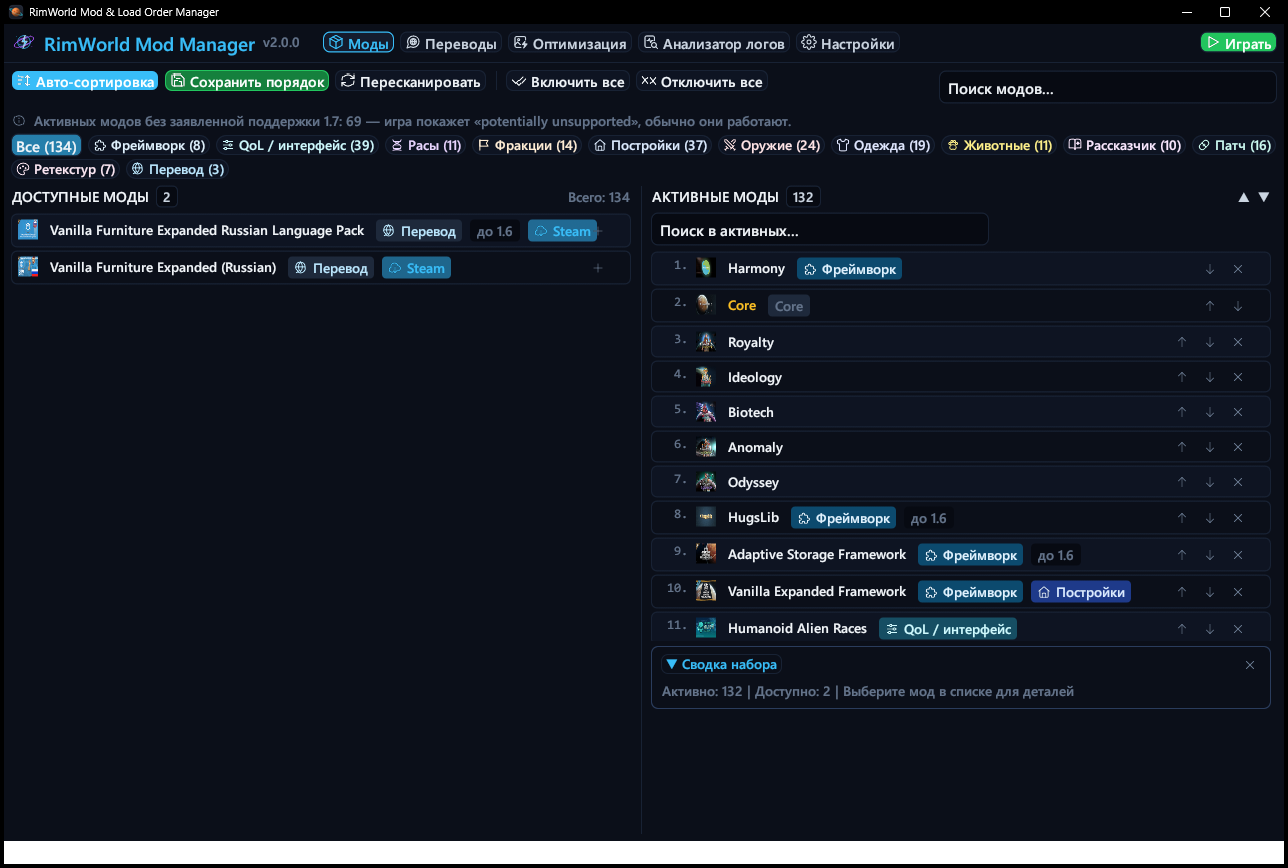
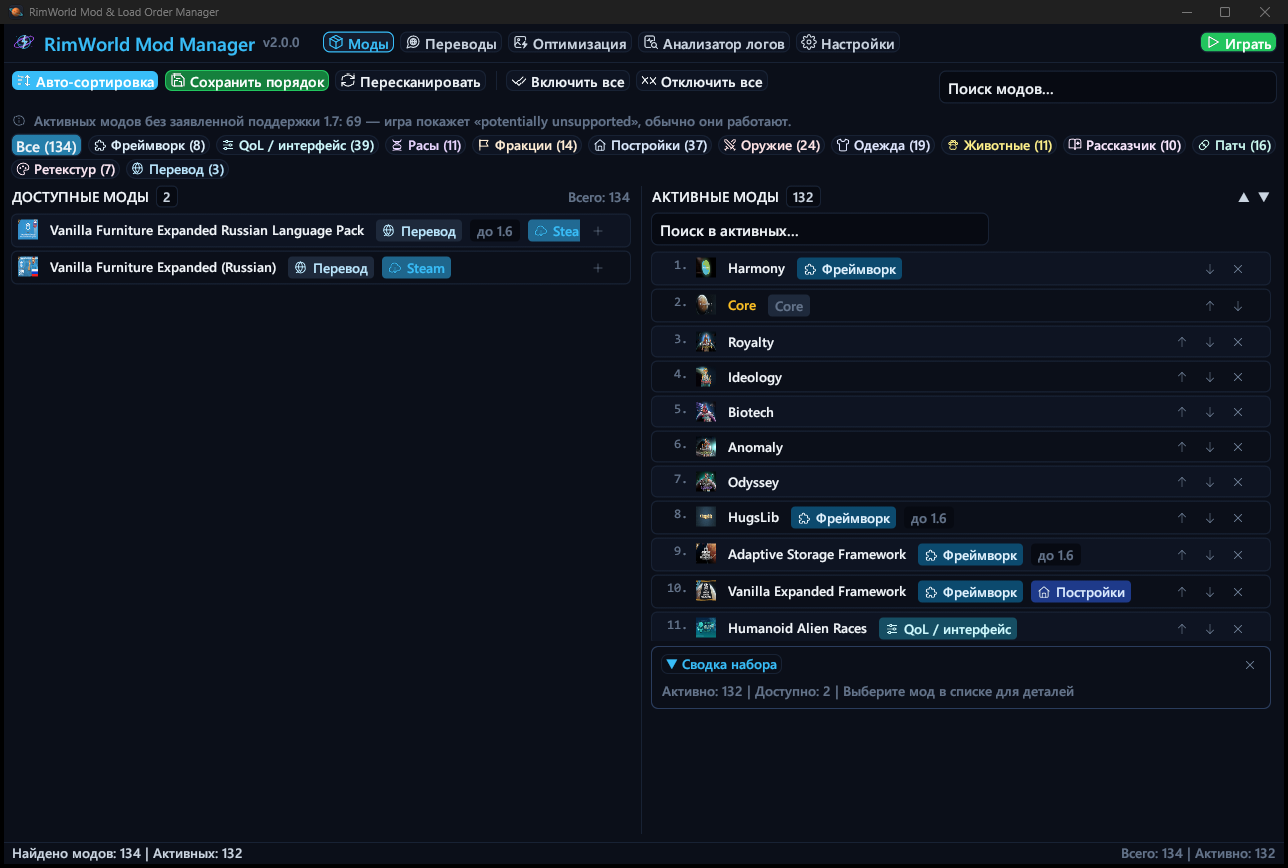
Mod rows: fixed button slot at the right edge
Long names and many badges are clipped before the row buttons instead of pushing
the + / up / down / close buttons over the badges. Screenshot updated.

Changed region(s): [[0.0, 0.9643, 1.0, 0.9954], [0.0, 0.0, 1.0, 0.0311], [0.4348, 0.2488, 0.4658, 0.28]]

diff --git a/src/ui/view_mods.rs b/src/ui/view_mods.rs
@@ -203,6 +203,42 @@ fn render_mods_view_inner(app: &mut App, ui: &mut Ui) {
     });
 }
 
+/// Width reserved at the right edge of a row for its buttons (padding + buttons).
+const ACTIVE_ROW_BUTTONS_WIDTH: f32 = 84.0;
+const INACTIVE_ROW_BUTTONS_WIDTH: f32 = 40.0;
+
+/// Where a row's button slot starts and ends.
+struct RowSplit {
+    right_x: f32,
+    max_x: f32,
+}
+
+/// Splits a row: returns a child UI for the content (clipped before the button slot, so a long
+/// name or many badges can never run under the buttons) and the position of the slot.
+fn split_row(ui: &mut Ui, buttons_width: f32) -> (Ui, RowSplit) {
+    let full = ui.available_rect_before_wrap();
+    let right_x = (full.max.x - buttons_width).max(full.min.x);
+    let left_rect = egui::Rect::from_min_max(full.min, egui::pos2(right_x - 4.0, full.max.y));
+    let mut left = ui.new_child(
+        egui::UiBuilder::new()
+            .max_rect(left_rect)
+            .layout(egui::Layout::left_to_right(egui::Align::Center)),
+    );
+    let mut clip = ui.clip_rect();
+    clip.max.x = clip.max.x.min(right_x - 4.0);
+    left.set_clip_rect(clip);
+    (left, RowSplit { right_x, max_x: full.max.x })
+}
+
+/// Reserves the content area in the row (never wider than its slot) and returns the rect
+/// for the buttons, as tall as the content.
+fn finish_row(ui: &mut Ui, left: &Ui, split: &RowSplit) -> egui::Rect {
+    let used = left.min_rect();
+    let content = egui::Rect::from_min_max(used.min, egui::pos2(split.right_x - 4.0, used.max.y));
+    ui.allocate_rect(content, egui::Sense::hover());
+    egui::Rect::from_min_max(egui::pos2(split.right_x, used.min.y), egui::pos2(split.max_x, used.max.y))
+}
+
 /// Average height of the rows just drawn (without item spacing), for `ScrollArea::show_rows`.
 /// Rows get taller with a bigger font, so the height is measured instead of hard-coded.
 fn measure_row_height(ui: &Ui, rows_top: f32, rows_count: usize) -> Option<f32> {
@@ -608,6 +644,11 @@ fn render_active_mods_column(app: &mut App, ui: &mut Ui) {
 
                 frame.show(ui, |ui| {
                     ui.horizontal(|ui| {
+                        // Buttons get a fixed slot at the right edge; long names and badges are
+                        // clipped before it instead of pushing the buttons over them.
+                        let (mut left_ui, split) = split_row(ui, ACTIVE_ROW_BUTTONS_WIDTH);
+                        {
+                        let ui = &mut left_ui;
                         // Numeric index in a fixed-width column, so "9." and "10." rows stay aligned.
                         ui.allocate_ui_with_layout(
                             Vec2::new(30.0, 18.0),
@@ -798,8 +839,15 @@ fn render_active_mods_column(app: &mut App, ui: &mut Ui) {
                             }
                         }
 
+                        }
+                        let right_rect = finish_row(ui, &left_ui, &split);
+
                         // Right action buttons (deactivate, move)
-                        ui.with_layout(egui::Layout::right_to_left(egui::Align::Center), |ui| {
+                        ui.allocate_new_ui(
+                            egui::UiBuilder::new()
+                                .max_rect(right_rect)
+                                .layout(egui::Layout::right_to_left(egui::Align::Center)),
+                            |ui| {
                             ui.add_space(16.0); // Padding to prevent scrollbar overlap
 
                             if !is_protected && icon_button(ui, ICON_CLOSE, Vec2::new(14.0, 14.0), THEME.text_muted).on_hover_text(t.get(TranslationKey::BtnDeactivate)).clicked() {
@@ -981,6 +1029,10 @@ fn render_inactive_mods_column(app: &mut App, ui: &mut Ui) {
 
                 frame.show(ui, |ui| {
                     ui.horizontal(|ui| {
+                        // Fixed slot for the "+" button at the right edge (see the active list).
+                        let (mut left_ui, split) = split_row(ui, INACTIVE_ROW_BUTTONS_WIDTH);
+                        {
+                        let ui = &mut left_ui;
                         // Mod Icon badge
                         let tex_opt = app.mod_textures.get(&m.package_id);
                         if tex_opt.is_none() {
@@ -1087,8 +1139,14 @@ fn render_inactive_mods_column(app: &mut App, ui: &mut Ui) {
                         if m.origin == ModOrigin::Workshop {
                             icon_badge(ui, ICON_STATUS_WORKSHOP, "Steam", THEME.accent_cyan.linear_multiply(0.2), THEME.accent_cyan);
                         }
+                        }
+                        let right_rect = finish_row(ui, &left_ui, &split);
 
-                        ui.with_layout(egui::Layout::right_to_left(egui::Align::Center), |ui| {
+                        ui.allocate_new_ui(
+                            egui::UiBuilder::new()
+                                .max_rect(right_rect)
+                                .layout(egui::Layout::right_to_left(egui::Align::Center)),
+                            |ui| {
                             ui.add_space(16.0); // Padding to prevent scrollbar overlap
                             if icon_button(ui, ICON_PLUS, Vec2::new(14.0, 14.0), THEME.text_muted).on_hover_text(t.get(TranslationKey::BtnActivate)).clicked() {
                                 activate_id = Some(m.package_id.clone());
